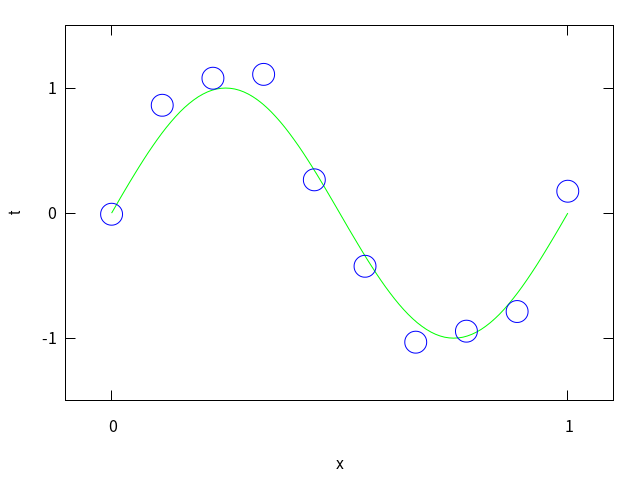
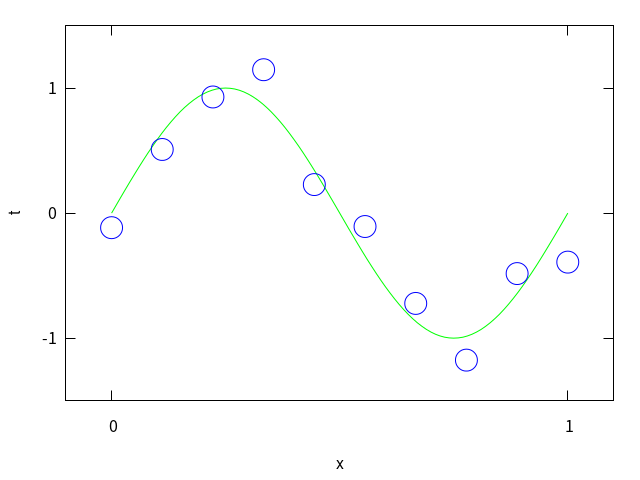
change data

diff --git a/README.md b/README.md
@@ -1,0 +1,22 @@
+PRML with Common Lisp
+=====================
+
+data.csv
+```
+(let* ((x (vgplot:range 0 10/9 1/9))
+                (y (map 'vector #'(lambda (x) (+ (sin (* 2 pi x)) (alexandria:gaussian-random -0.4 0.4))) x)))
+           (with-open-file (fout "data.csv" :direction :output :if-exists :supersede)
+             (loop :for x :across x
+                   :for y :across y
+                   :do (format fout "~a,~a~%" x y))))
+```
+
+test-data.csv
+```
+(let* ((x (vgplot:range 0 100/99 1/99))
+                (y (map 'vector #'(lambda (x) (+ (sin (* 2 pi x)) (alexandria:gaussian-random -0.4 0.4))) x)))
+           (with-open-file (fout "test-data.csv" :direction :output :if-exists :supersede)
+             (loop :for x :across x
+                   :for y :across y
+                   :do (format fout "~a,~a~%" x y))))
+```
